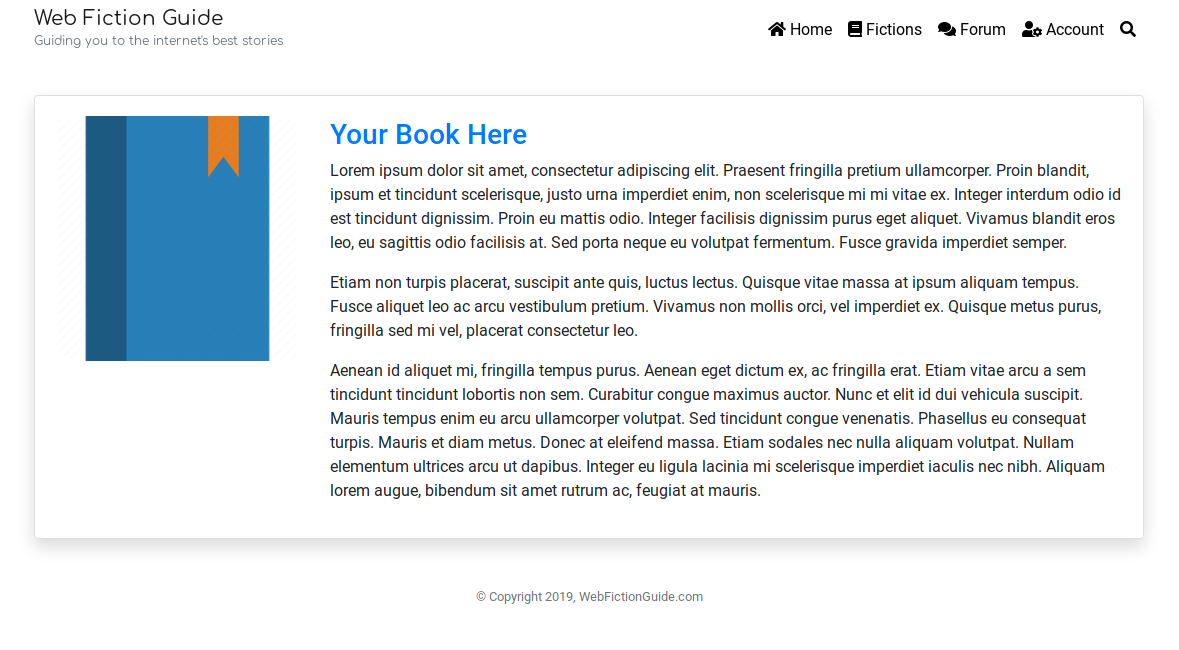
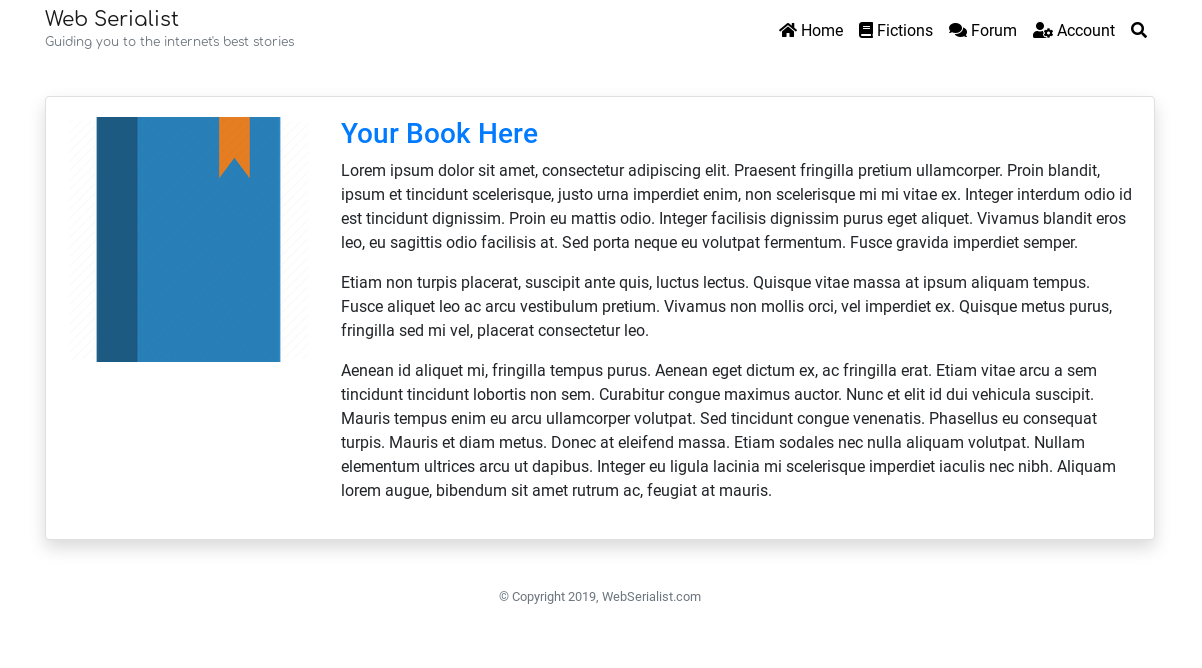
Update readme and screenshot and change site name

diff --git a/app/templates/base.html b/app/templates/base.html
@@ -1,7 +1,7 @@
 <!DOCTYPE html>
 <html lang='en'>
 	<head>
-		<title>{% if page %}{{ page.title }}{% endif %} - Web Fiction Guide.com</title>
+		<title>{% if page %}{{ page.title }}{% endif %} - Web Serialist.com</title>
 		<meta name="viewport" content="width=device-width, initial-scale=1.0">
 		{% if page %}
 			<meta name="description" content="{{ page.description() }}" />
@@ -138,7 +138,7 @@
 		<nav class="navbar fixed-top navbar-expand-lg navbar-light" id='topNavbar'>
 			<div class="container">
 				<a href="{{ url_for('fiction.index') }}" class='navbar-brand'>
-					Web Fiction Guide<br />
+					Web Serialist<br />
 					<small class="text-muted mt-0">Guiding you to the internet's best stories</small>
 				</a>
 				<button class="navbar-toggler" type="button" data-toggle="collapse" data-target="#navbarSupportedContent" aria-controls="navbarSupportedContent" aria-expanded="false" aria-label="Toggle navigation">
@@ -247,7 +247,7 @@
     </section>
 
 		<footer class="text-muted small">
-			<p class="text-center">&#169; Copyright 2019, WebFictionGuide.com </a>
+			<p class="text-center">&#169; Copyright 2019, WebSerialist.com </a>
 		</footer>
 
     <!-- jQuery -->

diff --git a/config.py b/config.py
@@ -13,5 +13,5 @@ class Config(object):
     MAIL_PORT = 465
     MAIL_USE_TLS = False
     MAIL_USE_SSL = True
-    MAIL_USERNAME = os.environ['EMAIL_USER']
-    MAIL_PASSWORD = os.environ['EMAIL_PASSWORD']
+    MAIL_USERNAME = os.environ['MAIL_USERNAME']
+    MAIL_PASSWORD = os.environ['MAIL_PASSWORD']

diff --git a/README.md b/README.md
@@ -1,4 +1,15 @@
-# webfictionguide.com
-A replacement for the current webfictionguide.com, written in Flask.
+# WebSerialist.com
+A website for listing, rating, and voting on the internet's best fiction, written in Flask.
+
+## Planned Features
+
+- List Fictions
+- Rate and Review fictions with 0-5 stars
+- Vote for fictions on a weekly basis
+- Ranking lists that are filterable and sortable by all available fiction stats (as well as it's hosting site)
+- Releases: post a link to your three most recent chapters
+- A forum
+- Follow your favorite fictions and get in-site notifications when a new release is posted
+- And more as I think of them
 
 ![Screenshot Example](https://raw.githubusercontent.com/treetrnk/webfictionguide.com/master/app/static/images/screenshot.png)
